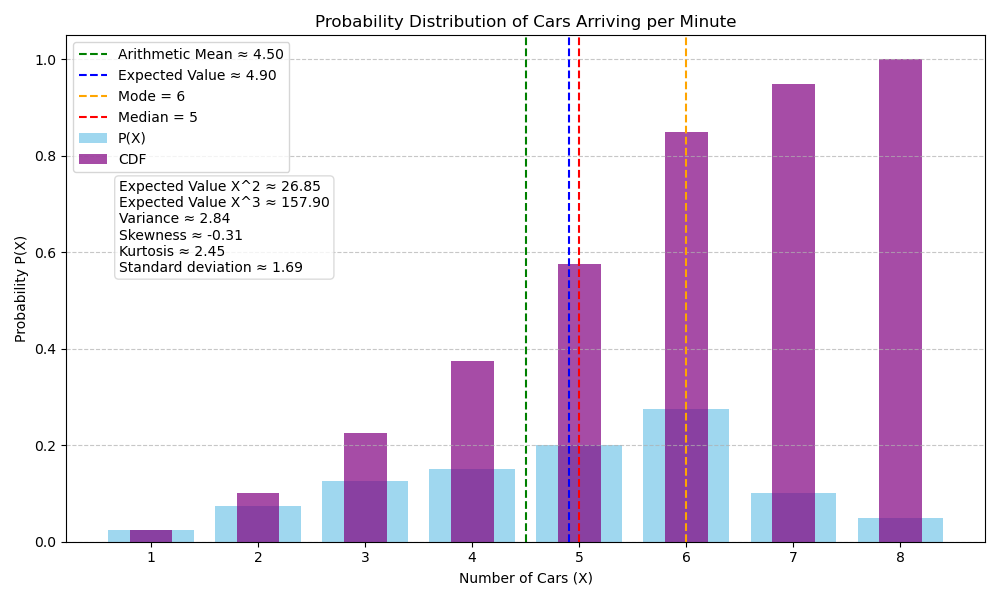
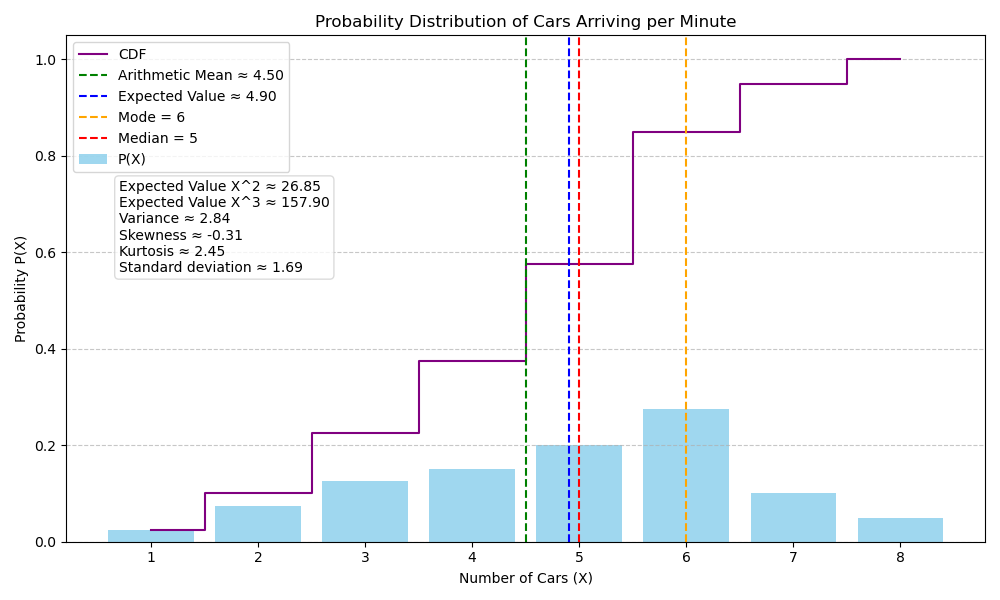
updated cdf to step function

diff --git a/Worksheet1/task1.py b/Worksheet1/task1.py
@@ -34,7 +34,7 @@ kurtosis=np.sum(((x - expected_value_x)**4) * p) / np.sqrt(variance)**4
 #Plotting
 plt.figure(figsize=(10, 6))
 plt.bar(x, p, color="skyblue", label="P(X)", alpha=0.8)
-plt.bar(x, cdf,  label="CDF", width=0.4,color='purple', alpha=0.7)
+plt.step(x, cdf,  label="CDF", where="mid",color='purple')
 
 # Add vertical lines for statistical measures
 plt.axvline(arithmetic_mean_x, color='green', linestyle='--', label=f'Arithmetic Mean ≈ {arithmetic_mean_x:.2f}')
